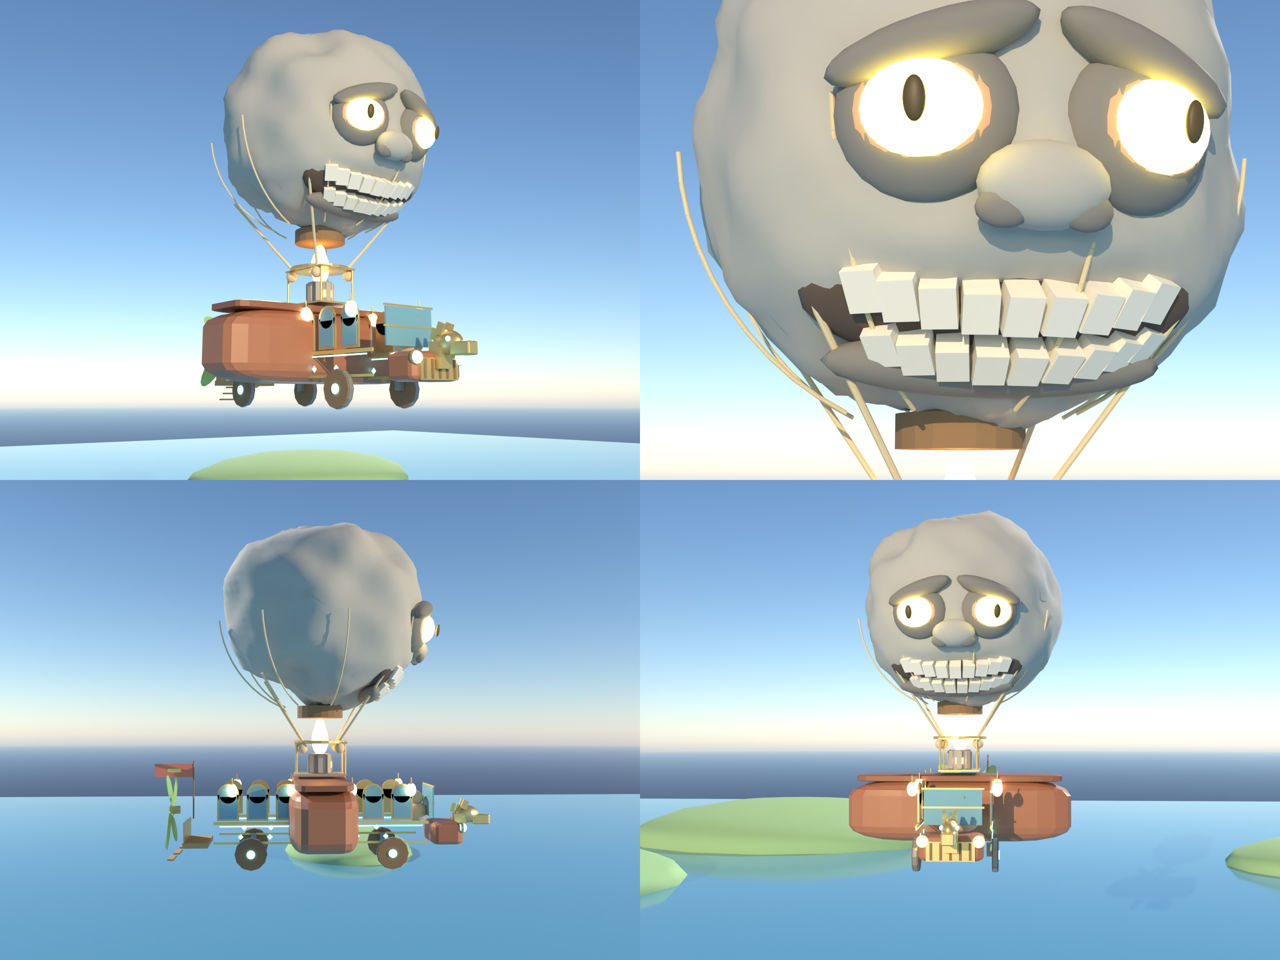
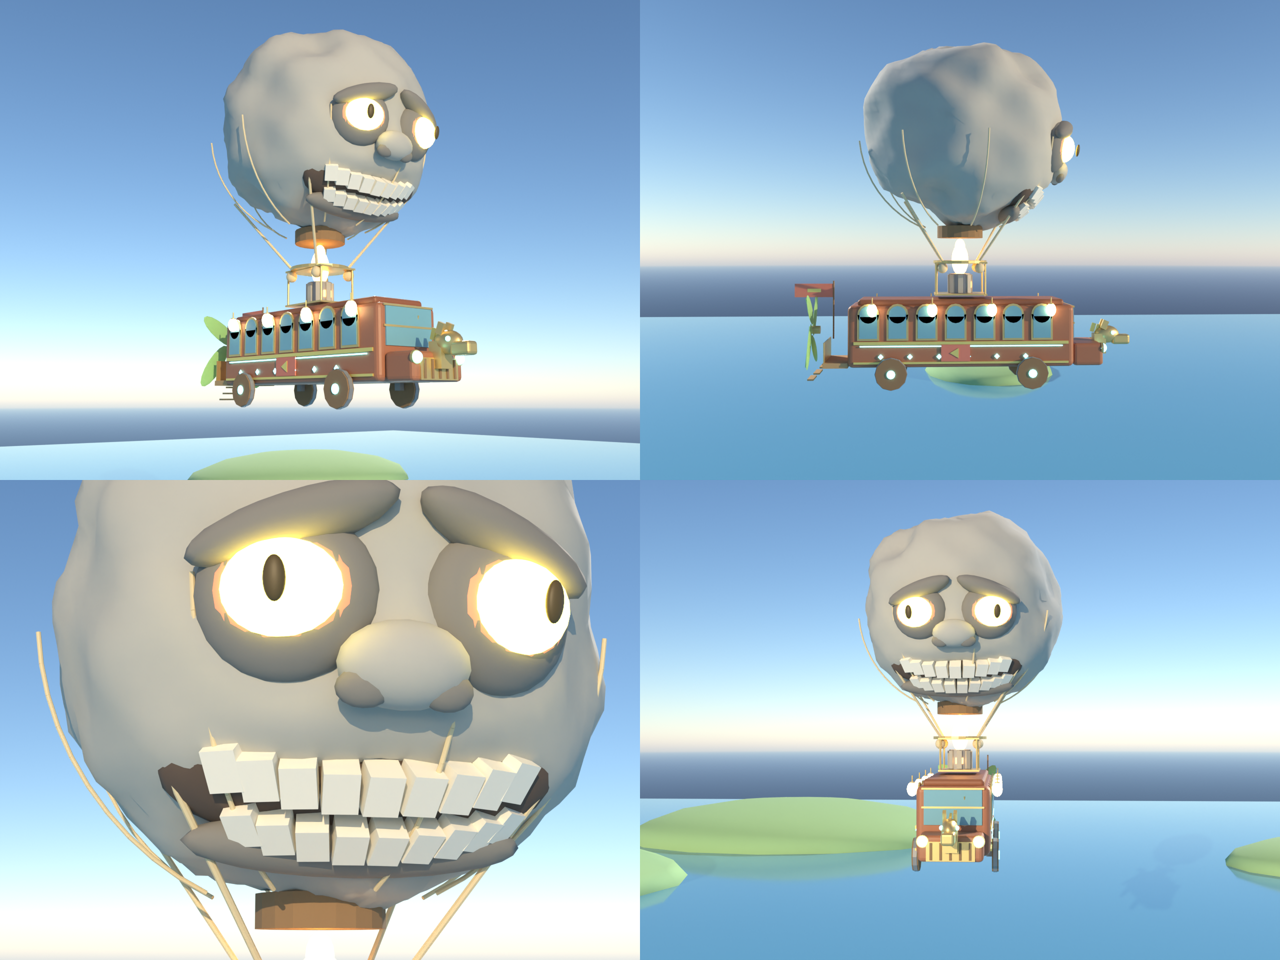
Battle Bus concept: fix the body's axis and bevel, new renders
Claude-Session: https://claude.ai/code/session_016oz4zxWLKUs5cRTx4R3kHC

diff --git a/tools/bus/concept_blockout.py b/tools/bus/concept_blockout.py
@@ -43,6 +43,8 @@ def cyl(m, loc, r, h, rot=(0,0,0), v=16, name=None, smooth=False):
 def sph(m, loc, r, seg=24, ring=12, name=None, smooth=True):
     bpy.ops.mesh.primitive_uv_sphere_add(segments=seg, ring_count=ring, radius=r); return finish(bpy.context.object, m, loc, (1,1,1), (0,0,0), name, smooth)
 def bevel(o, w=0.08, segs=3):
+    bpy.ops.object.select_all(action='DESELECT'); o.select_set(True); bpy.context.view_layer.objects.active = o
+    bpy.ops.object.transform_apply(location=False, rotation=False, scale=True)   # bevel width is in object space: apply the box's size first
     mod = o.modifiers.new("bevel", 'BEVEL'); mod.width = w; mod.segments = segs; mod.limit_method = 'ANGLE'
 def rope(m, p0, p1, r=0.045):
     p0, p1 = Vector(p0), Vector(p1); d = p1 - p0
@@ -50,8 +52,8 @@ def rope(m, p0, p1, r=0.045):
 
 # ---------------------------------------------------------------- the coach-bus (metres; faces -Y; 1 m = 100 game units)
 L, W, H = 11.0, 3.2, 3.0
-body = box(M["blue"], (0, 0, 1.0 + H/2), (L, W, H), name="BusBody"); bevel(body, 0.25, 4)
-roof = box(M["blue2"], (0, 0, 1.0 + H + 0.1), (L - 0.9, W - 0.5, 0.36), name="Roof"); bevel(roof, 0.16, 4)
+body = box(M["blue"], (0, 0, 1.0 + H/2), (W, L, H), name="BusBody"); bevel(body, 0.25, 4)
+roof = box(M["blue2"], (0, 0, 1.0 + H + 0.1), (W - 0.5, L - 0.9, 0.36), name="Roof"); bevel(roof, 0.16, 4)
 # arched windows along both sides, brass frames
 for s in (-1, 1):
     for i in range(7):
